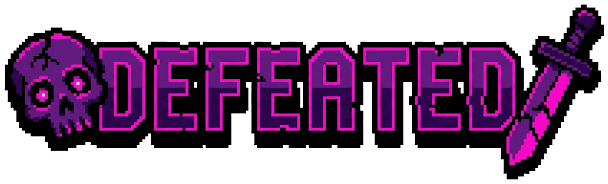
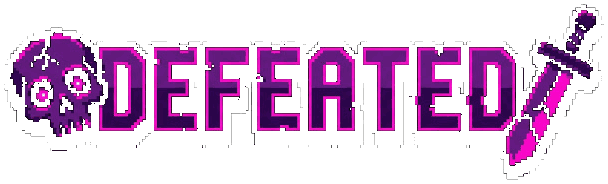
feat(battle): 開始/勝利時の行動禁止・EN回復強化・背景演出・DEFEATED透過修正
行動制御
- actionsLocked を追加し、敵全滅後（勝利確定待ち）の休憩連打などを禁止
- 戦闘開始直後＝敵が出てくる瞬間に行動禁止時間を新設（SPAWN_LOCK_MS=650）。
  攻撃/ためる/集中/休憩/ガードすべて不可。UIボタンも無効表示

EN回復の調整
- JUSTガード：EN +2（JUST_EN_RECOVER）
- パーフェクトガード：ENを最大まで全回復
- 敵撃破：EN +3（KILL_EN_RECOVER）。撃破時に "+3EN" を表示
- 遊び方ページの記載も更新

演出
- バトル背景に常時の動きを追加：ドットグリッドがゆっくり上へ流れ、
  光の粒（drawAmbientMotes）が下から昇りつつ明滅・横ゆれ
- DEFEATED バナーの透過漏れを修正（文字間・背景の黒(1,1,1)を除去）

Claude-Session: https://claude.ai/code/session_01T3h1eCaHq8qFAsCYt2XXXQ

Changed region(s): [[0.0, 0.0272, 1.0, 0.9783]]

diff --git a/src/game/engine.ts b/src/game/engine.ts
@@ -12,7 +12,7 @@ import {
   REST_EN_RECOVER,
   GUARD_EN_RECOVER,
   JUST_EN_RECOVER,
-  PERFECT_EN_RECOVER,
+  KILL_EN_RECOVER,
   GUARD_WINDOW_MS,
   JUST_WINDOW_MS,
   PERFECT_WINDOW_MS,
@@ -35,6 +35,7 @@ import {
   READY_WAIT_MAX_MS,
   TELEGRAPH_SCALE,
   TELEGRAPH_MIN_MS,
+  SPAWN_LOCK_MS,
   BREAK_TURNS,
   BREAK_CRIT_MULT,
   rollEnemyDrop,
@@ -200,6 +201,8 @@ export class Battle {
   /** ボス戦開始の警告演出（暗転＋BOSS BATTLE）の残り時間(ms)。>0の間は操作・進行を凍結 */
   introT = 0;
   introMax = 0;
+  /** 戦闘開始直後の行動禁止時間(ms)。敵が出てくる瞬間は操作不可（>0の間） */
+  spawnLockT = SPAWN_LOCK_MS;
   /** 敗北演出中フラグ。スロー＋敗北宣言を見せてから lost へ移す */
   losePending = false;
   /** 敗北演出の残り時間(ms)。0 で phase=lost に確定 */
@@ -257,11 +260,22 @@ export class Battle {
     return this.enemies.some((e) => e.alive && !e.isBroken && e.count <= 0);
   }
 
+  /**
+   * プレイヤーが一切行動できない状態か。
+   * ・戦闘開始直後（敵が出てくる瞬間の行動禁止時間）
+   * ・勝利確定待ち（全滅後の撃破演出中。休憩連打などを防ぐ）
+   * ・敗北演出中
+   */
+  get actionsLocked(): boolean {
+    return this.spawnLockT > 0 || this.winPending || this.losePending || this.aliveEnemies.length === 0;
+  }
+
   // ===== プレイヤー行動 =====
 
   /** スキル使用。成功でtrue。mods=装備武器のステータス（攻撃力・会心・ブレイク） */
   useSkill(skill: Skill, mods?: WeaponMods): boolean {
     if (this.phase !== "fighting" || this.introT > 0) return false;
+    if (this.actionsLocked) return false; // 開始直後・勝敗演出中は不可
     if (this.windupT > 0) return false; // 攻撃の溜め中は新しい行動を受け付けない
     // 敵の攻撃フェーズ（カウント0＝攻撃前待機／予兆中）はガードのみ。攻撃・ためる・集中は不可
     if (this.inEnemyAttackPhase) {
@@ -359,6 +373,7 @@ export class Battle {
   /** 休憩：ENを回復（攻撃はしない）。実行できたら true */
   rest(): boolean {
     if (this.phase !== "fighting" || this.introT > 0) return false;
+    if (this.actionsLocked) return false; // 開始直後・勝敗演出中は休憩不可（連打防止）
     if (this.windupT > 0) return false; // 攻撃の溜め中は休憩できない
     if (this.inEnemyAttackPhase) return false; // 攻撃前待機／予兆中はガードのみ
     const before = this.playerEn;
@@ -425,6 +440,7 @@ export class Battle {
   /** ガード：予兆中の最も着弾が近い敵の攻撃を受け止める。判定結果を返す */
   guard(): GuardResult {
     if (this.phase !== "fighting" || this.introT > 0) return "none";
+    if (this.actionsLocked) return "none"; // 開始直後・勝敗演出中はガードも不可
     // 予兆中の敵のうち、最も着弾が近い（telegraphTが小さい）ものを対象に
     const targets = this.enemies.filter((e) => e.inTelegraph);
     if (targets.length === 0) {
@@ -504,6 +520,11 @@ export class Battle {
     e.drop = rollEnemyDrop(e.def); // 率で武器ドロップ（外れあり＝撃破時は宝箱で表示）
     const gold = rollEnemyGold(e.def); // 強い敵ほど多い
     this.goldEarned += gold;
+    // 撃破でEN回復（攻め続けるご褒美）
+    const enBefore = this.playerEn;
+    this.playerEn = Math.min(PLAYER_MAX_EN, this.playerEn + KILL_EN_RECOVER);
+    const enGain = Math.round(this.playerEn - enBefore);
+    if (enGain > 0) this.pushFloat(`+${enGain}EN`, "#9fe8ff", "player");
     // 撃破の爆発エフェクト（テキストポップは出さず、爆発＋コイン＋宝箱で魅せる）
     this.explosions.push({ anchor: idx, ttl: 460, max: 460 });
     // コインが弾けて落ちる演出（ゴールドが多いほど多く）
@@ -532,7 +553,7 @@ export class Battle {
         // === このゲームで一番気持ちいい瞬間 ===
         dmg = 0;
         this.playerHp = Math.min(PLAYER_MAX_HP, this.playerHp + PERFECT_HP_RECOVER);
-        this.playerEn = Math.min(PLAYER_MAX_EN, this.playerEn + PERFECT_EN_RECOVER);
+        this.playerEn = PLAYER_MAX_EN; // パーフェクトはENを最大まで全回復
         // 一瞬の静止→ホワイトアウト→スロー＋弾きエフェクト＋軽い揺れ
         this.hitstopT = HITSTOP_MS;
         this.whiteFlashT = WHITE_FLASH_MS;
@@ -540,7 +561,7 @@ export class Battle {
         this.perfectFxT = 360;
         this.perfectFxIndex = idx;
         this.shake(180, 4);
-        this.pushFloat(`+${PERFECT_HP_RECOVER}HP +${PERFECT_EN_RECOVER}EN`, "#66ffaa", "player");
+        this.pushFloat(`+${PERFECT_HP_RECOVER}HP ENMAX`, "#66ffaa", "player");
         // 敵を怯ませる：カウントを戻し、ブレイクゲージも溜める
         e.flinchT = PERFECT_FLINCH_MS;
         if (!e.isBroken) {
@@ -643,6 +664,9 @@ export class Battle {
       if (this.loseAnimT <= 0) this.phase = "lost";
       return;
     }
+
+    // 戦闘開始直後の行動禁止（敵が出てくる瞬間）。実時間で消化する
+    if (this.spawnLockT > 0) this.spawnLockT = Math.max(0, this.spawnLockT - realDt);
 
     // スローモーション：以降の進行を遅い時間で動かす
     if (this.slowT > 0) {

diff --git a/src/render/canvas.ts b/src/render/canvas.ts
@@ -110,15 +110,38 @@ export function enemySlots(n: number): { x: number; y: number }[] {
   return enemyLayout(n).map((L) => ({ x: L.cx, y: L.footY }));
 }
 
-/** ライトテーマの背景ドットグリッド（ターミナル風の方眼） */
+/** ライトテーマの背景ドットグリッド（ゆっくり上へ流れて奥行きと動きを出す） */
 function drawDotGrid(ctx: CanvasRenderingContext2D): void {
   const step = 16;
+  const drift = (Date.now() / 70) % step; // 方眼がゆっくり上方向へスクロール
   ctx.fillStyle = "#d8cdd5";
-  for (let y = step / 2; y < H; y += step) {
+  for (let y = step / 2 - drift; y < H + step; y += step) {
+    if (y < -2) continue;
     for (let x = step / 2; x < W; x += step) {
       ctx.fillRect(x, y, 2, 2);
     }
   }
+}
+
+/**
+ * 背景に常時漂う光の粒。下から上へゆっくり昇り、横にゆれ、ちらつく。
+ * バトル画面に「止まっていない」動きを与える（キャラより奥に描く）。
+ */
+function drawAmbientMotes(ctx: CanvasRenderingContext2D): void {
+  const t = Date.now() / 1000;
+  ctx.save();
+  for (let i = 0; i < 24; i++) {
+    const speed = 9 + (i % 5) * 5;                  // 粒ごとの速度差＝奥行き
+    const sway = Math.sin(t * 0.6 + i * 1.3) * 12;  // ゆらゆら横ゆれ
+    const x = (((i * 79) % W) + sway + W) % W;
+    const y = H - ((t * speed + i * 47) % (H + 40)); // 下端→上端へ循環
+    const size = 1 + (i % 3);
+    const tw = 0.18 + 0.32 * (0.5 + 0.5 * Math.sin(t * 2.1 + i * 1.7)); // 明滅
+    ctx.globalAlpha = tw;
+    ctx.fillStyle = i % 4 === 0 ? "#ff9ad6" : "#c7bce8";
+    ctx.fillRect(Math.round(x), Math.round(y), size, size);
+  }
+  ctx.restore();
 }
 
 /** 角丸矩形パス */
@@ -223,6 +246,7 @@ export function render(
   ctx.fillStyle = "#fcf9f8";
   ctx.fillRect(0, 0, W, H);
   drawDotGrid(ctx);
+  drawAmbientMotes(ctx);
 
   // 地面のライン（淡いグレー）
   ctx.strokeStyle = "#d2c7cf";

diff --git a/src/game/data.ts b/src/game/data.ts
@@ -364,10 +364,12 @@ export const PLAYER_MAX_EN = 10;
 
 // ===== EN回復（自動回復なし。休憩・ガード成功のみ） =====
 export const REST_EN_RECOVER = 3;
-// 通常ガードはわずか、JUSTは中程度、パーフェクトが大きく報われる。
+// 通常ガードはわずか、JUSTは中程度、パーフェクトはEN最大まで全回復。
 export const GUARD_EN_RECOVER = 1;
-export const JUST_EN_RECOVER = 3;
-export const PERFECT_EN_RECOVER = 6;
+export const JUST_EN_RECOVER = 2;
+// ※パーフェクトガードはENを最大まで全回復する（固定値ではないため定数なし）
+/** 敵を撃破したときのEN回復量 */
+export const KILL_EN_RECOVER = 3;
 
 // ===== ガード判定の窓 =====
 // 着弾までの残り時間がこの範囲ならガード成立。
@@ -428,6 +430,12 @@ export const READY_WAIT_MAX_MS = 2200;
 // 敵ごとの telegraphMs に掛けて使う（速い敵ほど短い）。最低 TELEGRAPH_MIN_MS は確保。
 export const TELEGRAPH_SCALE = 0.55;
 export const TELEGRAPH_MIN_MS = 480;
+
+/**
+ * 戦闘（ウェーブ）開始直後、敵が出てくる瞬間の行動禁止時間(ms)。
+ * この間はプレイヤーは攻撃・ガード等ができず、敵の登場を見てから始まる。
+ */
+export const SPAWN_LOCK_MS = 650;
 
 // ===== 演出の表示時間（発動した表記を1秒ほど画面に残す） =====
 /** ダメージ・連携・回復などの浮遊テキストの寿命(ms) */

diff --git a/src/main.ts b/src/main.ts
@@ -13,7 +13,7 @@ import { Game, CLASSES, STAGE_COUNT } from "./game/game.ts";
 import {
   STAGES, WORLDS, ENDLESS_INDEX, WEAPON_LABEL, RARITY_LABEL, RARITY_COLOR, KIND_LABEL, WEAKNESS, WEAKNESS_MULTIPLIER,
   getWeapon, getSkill, skillDescription, isRainbowRarity, matchCombo, stageDropPreview, COMBOS,
-  PLAYER_MAX_HP, PLAYER_MAX_EN, REST_EN_RECOVER, PERFECT_HP_RECOVER, PERFECT_EN_RECOVER, SHOP_ITEMS, SHOP_CHESTS,
+  PLAYER_MAX_HP, PLAYER_MAX_EN, REST_EN_RECOVER, PERFECT_HP_RECOVER, JUST_EN_RECOVER, SHOP_ITEMS, SHOP_CHESTS,
   effectiveWeapon, expForNext, levelCap, materialExp, awakenCost, MAX_AWAKEN,
 } from "./game/data.ts";
 import { audio } from "./audio/audio.ts";
@@ -1555,7 +1555,8 @@ function updateWeaponButtons(): void {
   const last = b.lastSkill;
   // 敵の攻撃フェーズ（カウント0＝攻撃前待機／予兆中）はガードのみ。攻撃カード・休憩は無効化
   const telegraph = b.anyTelegraph;       // !表示中（ガード強調用）
-  const enemyTurn = b.inEnemyAttackPhase; // 0待ち＋予兆＝攻撃・休憩を封じる
+  const locked = b.actionsLocked;         // 開始直後・勝敗演出中＝全行動禁止
+  const enemyTurn = b.inEnemyAttackPhase || locked; // 攻撃・休憩を封じる状態
   for (const entry of battleCards) {
     const { card, cls, steps, mark, link } = entry;
     const active = game.comboIndex(cls);
@@ -1836,8 +1837,8 @@ function buildHowTo(): void {
   // 4. ガードのタイミング
   const guard = document.createElement("div");
   guard.appendChild(howText("ガードは<b>タイミング</b>で結果が変わる。引きつけるほど見返りが大きい。"));
-  guard.appendChild(howStep("✨", "PERFECT（直前）", `被ダメージ0、HP <b>+${PERFECT_HP_RECOVER}</b>・AP <b>+${PERFECT_EN_RECOVER}</b> 回復し、敵をひるませる。`));
-  guard.appendChild(howStep("⭐", "JUST（早め）", "被ダメージを大きく軽減しAPも少し回復。"));
+  guard.appendChild(howStep("✨", "PERFECT（直前）", `被ダメージ0、HP <b>+${PERFECT_HP_RECOVER}</b>・AP <b>最大まで全回復</b>し、敵をひるませる。`));
+  guard.appendChild(howStep("⭐", "JUST（早め）", `被ダメージを大きく軽減しAP <b>+${JUST_EN_RECOVER}</b> 回復。`));
   guard.appendChild(howStep("🛡", "GUARD（通常）", "被ダメージを軽減。タイミングを逃しても守りにはなる。"));
   controls.appendChild(howSection("04", "ガードのコツ", guard));
 